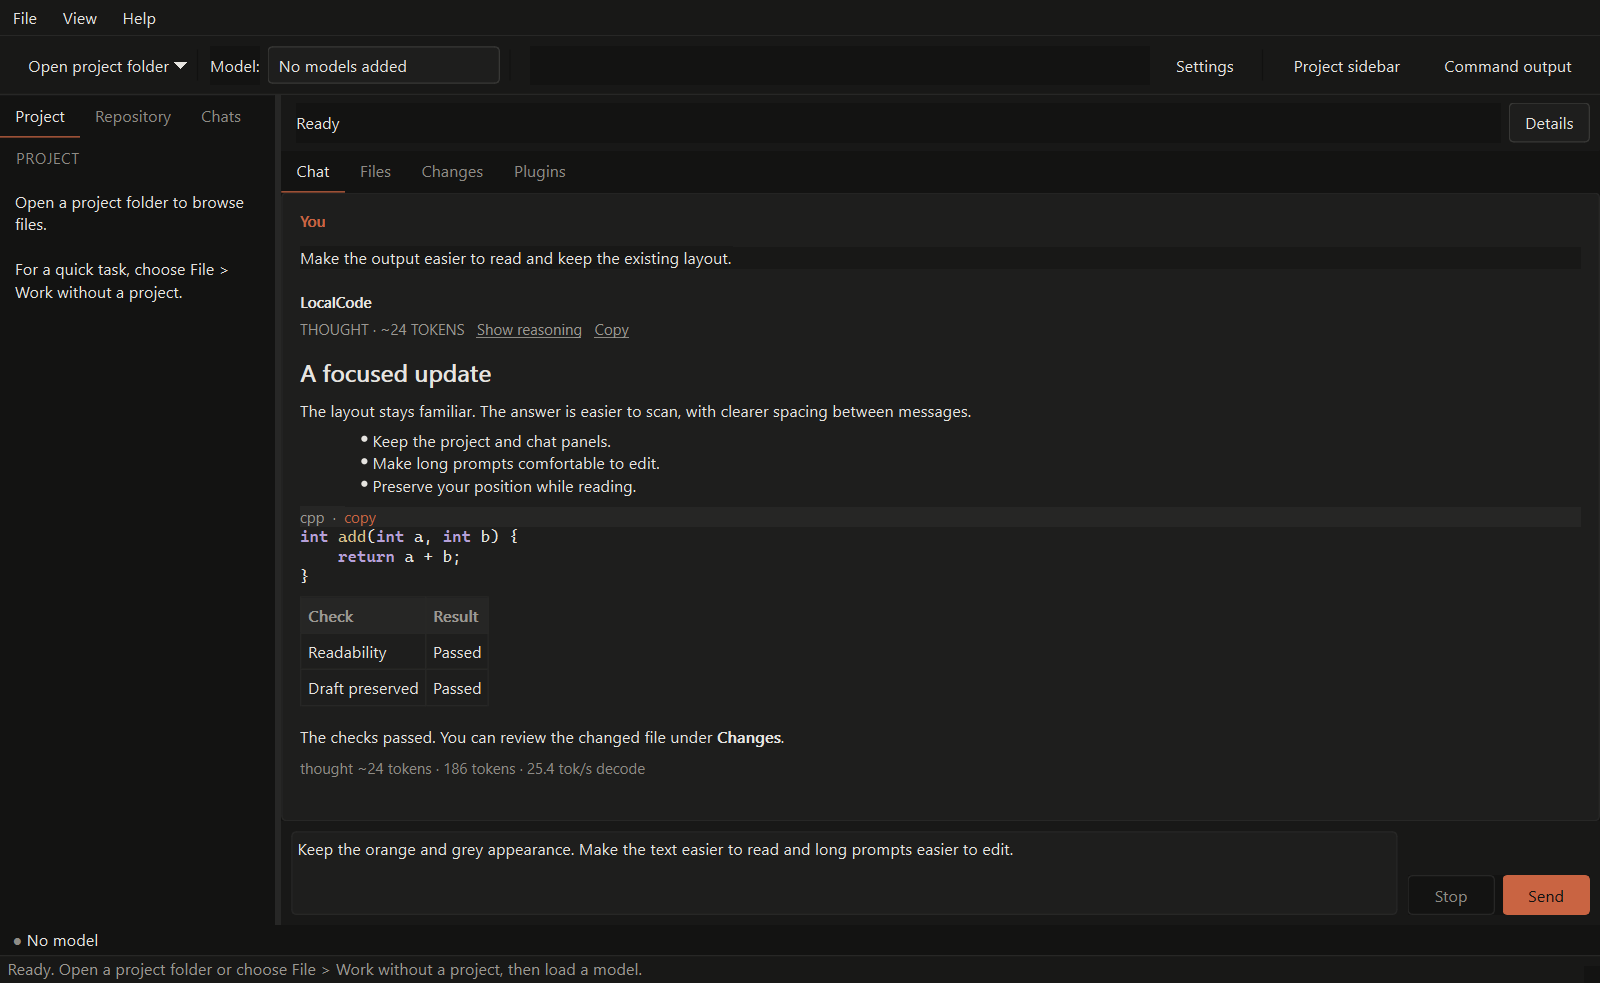
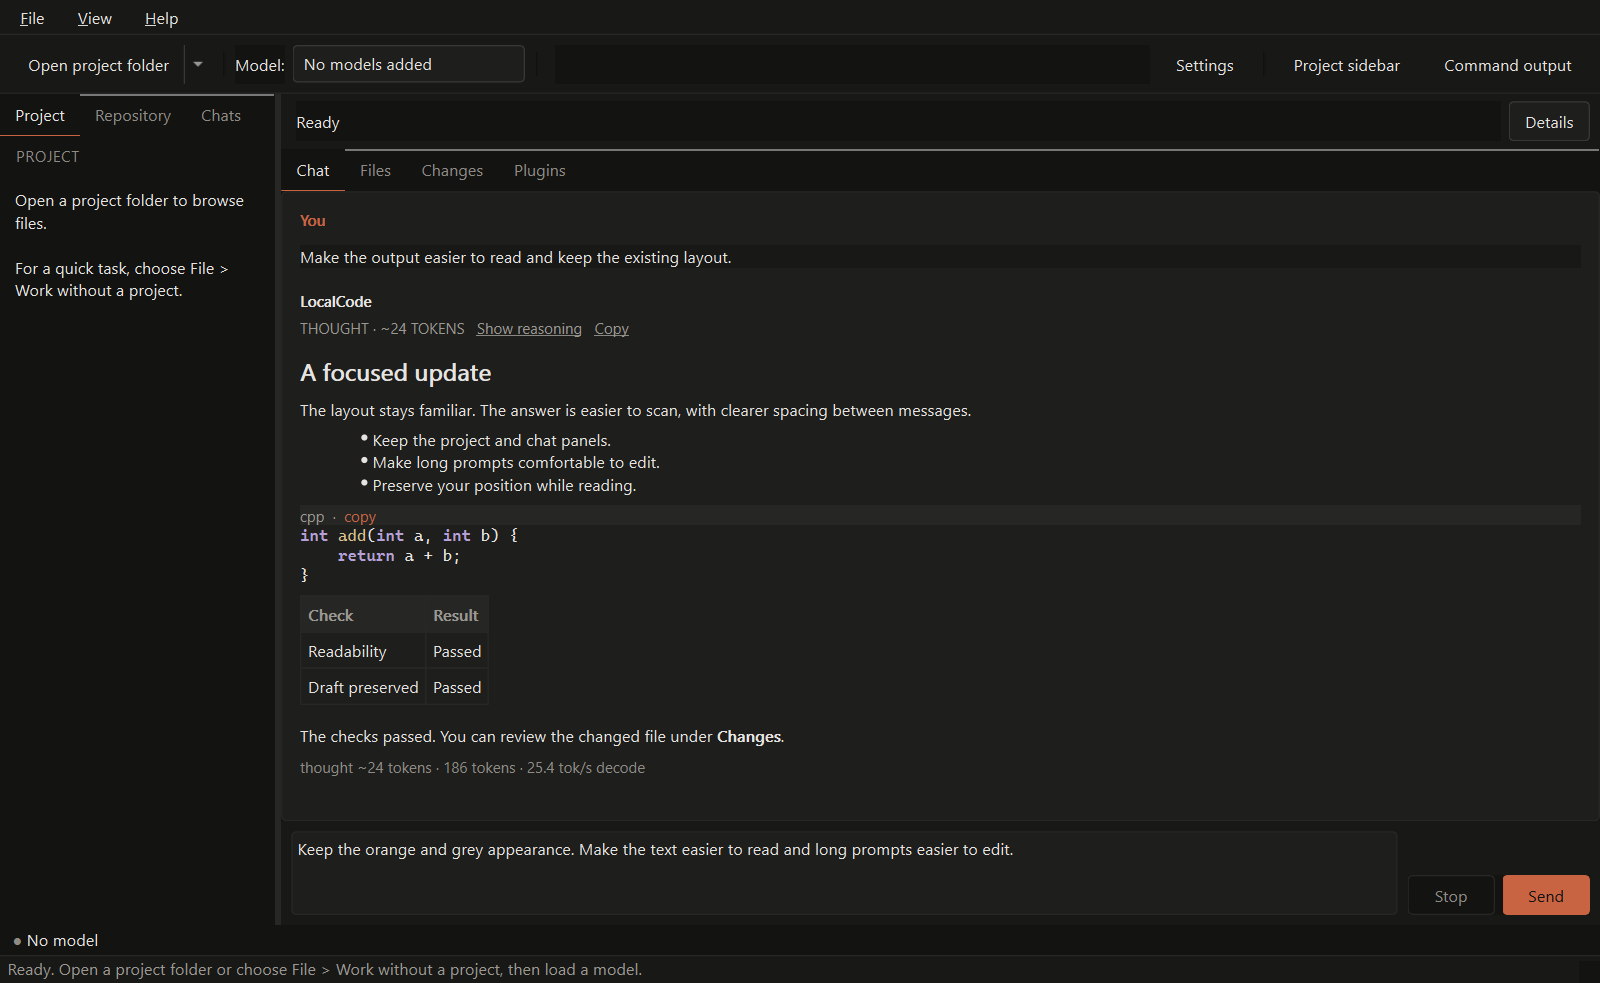
Align UI checks with shipping Fusion style and clarify first steps

diff --git a/src/gui/widgets/ChatView.cpp b/src/gui/widgets/ChatView.cpp
@@ -459,8 +459,11 @@ void ChatView::rebuild() {
                     "<p style=\"color:%2;font-size:9pt;margin:0 0 12px 0\">"
                     "READY</p>"
                     "<p style=\"color:%1;margin:0 0 16px 0\">"
-                    "Describe a change and it will be carried out in this project - "
-                    "reading files, running builds and tests, and editing as needed.</p>"
+                    "Add a GGUF model from the File menu and choose a working folder. "
+                    "Use the project menu to open a folder or work without a project.</p>"
+                    "<p style=\"color:%1;margin:0 0 16px 0\">"
+                    "Then describe a change: LocalCode can read files, run commands "
+                    "and edit the files in your working folder.</p>"
                     "<p style=\"color:%3;margin:0 0 6px 0\">"
                     "Every edit is made on disk and shown under <b>Changes</b>.</p>"
                     "<p style=\"color:%3;margin:0 0 6px 0\">"

diff --git a/tests/test_gui.cpp b/tests/test_gui.cpp
@@ -27,6 +27,7 @@
 #include <QSettings>
 #include <QSpinBox>
 #include <QStackedWidget>
+#include <QStyleFactory>
 #include <QTabWidget>
 #include <QTemporaryDir>
 #include <QTextBrowser>
@@ -2563,6 +2564,7 @@ int main(int argc, char** argv) {
     qputenv("QT_QPA_PLATFORM", "windows");
 #endif
     QApplication app(argc, argv);
+    if (auto* fusion = QStyleFactory::create("Fusion")) QApplication::setStyle(fusion);
 #ifdef Q_OS_WIN
     // Keep the font fixtures explicit for consistent layout assertions.
     const auto fonts = qEnvironmentVariable("WINDIR") + "/Fonts/";

diff --git a/src/gui/Theme.cpp b/src/gui/Theme.cpp
@@ -406,6 +406,14 @@ QToolButton {
 }
 QToolButton:hover   { background: %11; border-color: %4; }
 QToolButton:pressed { background: %4; }
+QToolButton#OpenProjectMenu { padding-right: 28px; }
+QToolButton#OpenProjectMenu::menu-button {
+    width: 22px;
+    border: none;
+    border-left: 1px solid %4;
+    background: transparent;
+}
+QToolButton#OpenProjectMenu::menu-button:hover { background: %11; }
 
 QMenuBar { background: %5; border-bottom: 1px solid %3; }
 QMenuBar::item { padding: 5px 10px; background: transparent; }

diff --git a/docs/UI_UPDATE_RC5.md b/docs/UI_UPDATE_RC5.md
@@ -31,10 +31,10 @@ The baseline reproduced a ten-line wrapped paragraph remaining in a three-line
 editor, and a new assistant segment moving scroll position from 0 to 1464 while
 the reader was at the top. Both cases now pass regression checks.
 
-The full GUI suite passed **104 cases and 4,310 assertions**, with **six existing
+The full GUI suite passed **104 cases and 4,314 assertions**, with **six existing
 opt-in skips**. Focused review, including additional font diagnostics, then passed
 **5 cases / 641 assertions**, both at normal scaling and with
-`QT_SCALE_FACTOR=1.5`. Main windows were reviewed at 1280×800 and 900×620 logical
+`QT_SCALE_FACTOR=1.5`. The harness uses the same Fusion style as the shipped app. Main windows were reviewed at 1280×800 and 900×620 logical
 pixels; the model panel at 280px wide; all eight Settings pages at 640×560, in
 both themes. Visible button rectangles were checked for overlap before and during
 hover. Keyboard send, newline and stop behavior, draft sizing and scroll-follow

diff --git a/docs/RELEASE_STATUS_1.0.md b/docs/RELEASE_STATUS_1.0.md
@@ -12,7 +12,7 @@ and rich-text fonts are consistent and slightly larger. A project toolbar menu
 exposes work without a project; **Jump to latest** occupies its own row below
 chat instead of covering controls.
 
-The final production UI passed **104 cases / 4,310 assertions**, with **six
+The final production UI passed **104 cases / 4,314 assertions**, with **six
 existing opt-in skips**. After adding font-capture diagnostics, focused review
 passed **5 cases / 641 assertions** at normal scaling and again with
 `QT_SCALE_FACTOR=1.5`. Dark/light renders, compact/desktop layouts, every Settings
